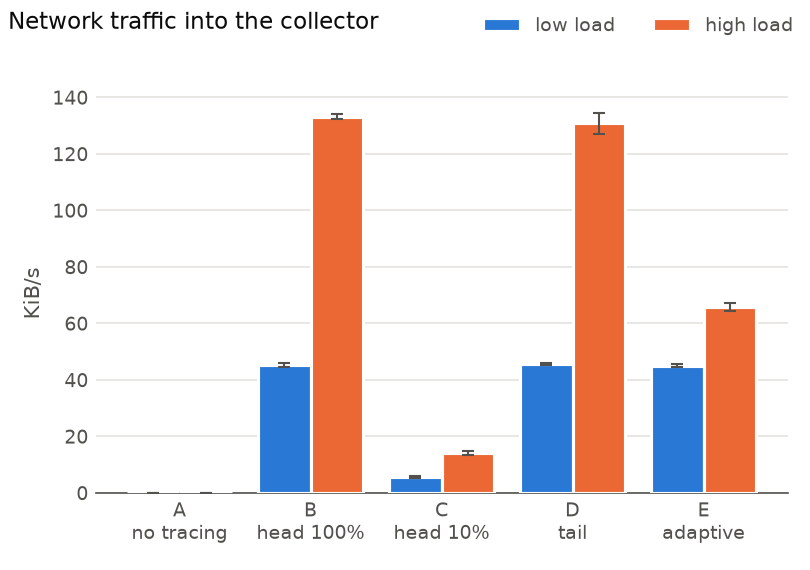
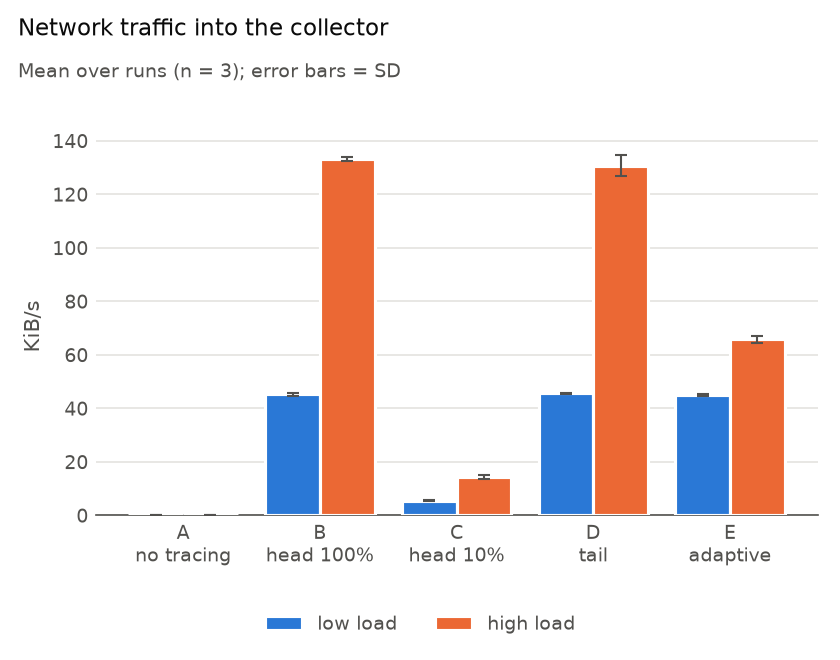
Update results and docs with confidence intervals
- Regenerate summary.md, summary.csv and charts from runs.csv;
  add the Ukrainian chart set in results/analysis/uk/
- docs/results.md: CI section with the clear (non-overlapping)
  and unclear differences, e.g. B vs D on service CPU and CPU at
  low load; note that n = 3 cannot resolve a few percent
- docs/experiment.md: new outputs and the --lang option

diff --git a/docs/results.md b/docs/results.md
@@ -3,7 +3,8 @@
 The final dataset is `results/raw/runs.csv`: 5 scenarios × 2 load levels × 3
 repetitions = 30 runs, 30 s warm-up + 120 s measured each, faults as in
 `scenarios/faults.env` (5% errors, 5% slow). The table and charts in
-`results/analysis/` were produced from it with `uv run analysis/analyze.py`.
+`results/analysis/` were produced from it with `uv run analysis/analyze.py`
+(Ukrainian charts for the report: `--lang uk`, in `results/analysis/uk/`).
 
 Host: Intel Core i7-7700HQ (4 cores / 8 threads), 16 GB RAM, Fedora 44
 (kernel 7.3), Docker 29.10.0, Compose 5.8.0, on AC power. Every measured
@@ -11,7 +12,8 @@ container is limited to 1 CPU and 512 MiB.
 
 ## Key numbers at high load (30 RPS)
 
-Mean ± SD over 3 runs. The full table for both load levels is in
+Mean ± SD over 3 runs (95% confidence intervals are in
+[Confidence intervals](#confidence-intervals)). The full table for both load levels is in
 [`results/analysis/summary.md`](../results/analysis/summary.md).
 
 | Scenario | CPU services, cores | p50, ms | Net to collector, KiB/s | Spans stored/s | RAM collector, MiB | Errors kept, % | Slow kept, % |
@@ -33,7 +35,9 @@ Mean ± SD over 3 runs. The full table for both load levels is in
 - **Full tracing has a clear cost.** B vs A at 30 RPS: service CPU +46%
   (+0.18 cores, ≈ 6 ms of CPU per request of 19 spans), median latency +33%
   (174 → 232 ms), service RAM +25% (218 → 273 MiB), ~133 KiB/s of extra
-  traffic. At 10 RPS: CPU +34%, p50 +22%.
+  traffic. At 10 RPS: CPU +34%, p50 +22%, but there the 95% CIs of A and B
+  overlap (see [Confidence intervals](#confidence-intervals)), so the
+  low-load cost is an estimate, not a clear difference.
 - **Head sampling cuts traffic and storage in proportion, CPU only partly.**
   C (10%) sends 89% less to the collector and stores 90% fewer spans, but
   removes only 38% of the CPU overhead (0.18 → 0.11 cores). The rest, about
@@ -60,7 +64,62 @@ Mean ± SD over 3 runs. The full table for both load levels is in
 - **Collector CPU is negligible** at this load (≤ 0.007 cores in every
   scenario); its cost shows up in memory and network.
 - At low load the CPU differences between the tracing scenarios (0.20–0.22
-  cores) are within about 2 SD of each other and are not meaningful.
+  cores) are not meaningful: their 95% CIs all overlap.
+
+## Confidence intervals
+
+The second table in
+[`results/analysis/summary.md`](../results/analysis/summary.md) gives the
+95% confidence interval of the mean for the key metrics:
+mean ± t(0.975, n − 1) · SD / √n with Student's t (t = 4.303 for n = 3).
+A difference between two scenarios is called *clear* below when their
+intervals do not overlap. Overlapping intervals do not prove that two
+scenarios are equal, only that 3 runs cannot tell them apart. Because t is
+large for n = 3, the intervals are wide: ±4–7% of the mean for service CPU
+at high load and up to ±30% at low load, so differences of a few percent
+cannot be detected.
+
+Service CPU, 95% CI, cores:
+
+| Scenario | Low load (10 RPS) | High load (30 RPS) |
+|---|---:|---:|
+| A: no tracing | 0.151 [0.104, 0.197] | 0.394 [0.372, 0.417] |
+| B: head 100% | 0.203 [0.183, 0.223] | 0.575 [0.550, 0.600] |
+| C: head 10% | 0.200 [0.184, 0.217] | 0.506 [0.485, 0.527] |
+| D: tail | 0.208 [0.200, 0.216] | 0.587 [0.560, 0.614] |
+| E: adaptive (cap 15/s) | 0.224 [0.186, 0.262] | 0.528 [0.491, 0.564] |
+
+**Clear differences (CIs do not overlap):**
+
+- *Cost of tracing at high load:* A is below every tracing scenario in
+  service CPU and p50.
+- *Head 10% vs 100% at high load:* C uses less service CPU than B and D,
+  and has lower p99 than B.
+- *Export volume:* network to the collector is clearly lower for A, C and,
+  at high load, E than for B and D; spans stored per second differ clearly
+  between all scenarios at high load (B > E > D > C).
+- *Collector memory at high load:* all five scenarios differ clearly,
+  including D (tail, 69 MiB) vs B (61 MiB); at low load D is also clearly
+  above B.
+- *Retention:* C (both loads) and E (high load) keep clearly fewer error and
+  slow traces than B and D.
+
+**Not distinguishable (CIs overlap):**
+
+- *B vs D on service CPU*, at both loads (high: 0.575 [0.550, 0.600] vs
+  0.587 [0.560, 0.614]), and on network to the collector. This is what the
+  hypothesis predicts: tail sampling does not lower the services' export
+  cost. Strictly, 3 runs only show that any difference is small; they
+  cannot rule out a few percent in either direction.
+- *E vs B, C and D on service CPU at high load*: E (0.528) lies between C
+  and B, but its interval overlaps all three.
+- *All CPU differences at low load:* B, C, D and E overlap with each other,
+  and A overlaps with B, C and E as well (A's interval is wide, ±0.047
+  cores). Only D vs A is (just) clear. At 10 RPS the CPU cost of tracing is
+  below what 3 runs can resolve.
+- *Latency between the tracing scenarios:* p50 of B, C, D and E overlap at
+  high load; at low load p50 and p99 overlap for all scenarios, including A.
+- *Collector memory at low load:* A vs C and B vs E.
 
 ## Conclusion on the hypothesis
 
@@ -89,14 +148,16 @@ interesting traces).
 
 ## Limitations
 
-- One host, 3 repetitions per setting, two load levels. Differences of a few
-  percent (e.g. between the tracing scenarios at low load) are within noise.
+- One host, 3 repetitions per setting, two load levels. With n = 3 the 95%
+  CIs are wide (t = 4.3), so differences of a few percent (e.g. between the
+  tracing scenarios at low load, or B vs D on CPU) cannot be detected.
 - The services are synthetic and their spans are small (standard HTTP/Redis
   attributes, no events). With larger spans the per-span cost, and so the
   CPU saved by sampling, would be larger.
 - p95 is not reliable here: the 5% slow fault (+500 ms) sits right at the
   95th percentile, so p95 jumps between ~160 and ~600 ms from run to run (SD
-  up to ±260 ms). Use p50 and p99 for latency.
+  up to ±260 ms). It stays in the mean ± SD table, but the latency chart
+  and the CI table use p50 and p99.
 - RAM is the cAdvisor working set, which also counts recently read files.
   In one run a cold start of the collector binary added ~165 MiB of page
   cache; that run was repeated. A repeat run on battery power gave ~20%

diff --git a/results/analysis/summary.md b/results/analysis/summary.md
@@ -1,3 +1,5 @@
+## Mean ± SD
+
 | Scenario | Load | n | RPS | p50, ms | p95, ms | p99, ms | CPU services, cores | CPU collector, cores | RAM services, MiB | RAM collector, MiB | Net to collector, KiB/s | Spans stored/s | Errors kept, % | Slow kept, % |
 |---|---|---|---:|---:|---:|---:|---:|---:|---:|---:|---:|---:|---:|---:|
 | A: no tracing | low | 3 | 10.0 ± 0.0 | 94 ± 6 | 426 ± 260 | 620 ± 6 | 0.151 ± 0.019 | 0.002 ± 0.000 | 217.3 ± 0.8 | 41.1 ± 0.7 | 0.1 ± 0.0 | 0.0 ± 0.0 | 0.0 ± 0.0 | 0.0 ± 0.0 |
@@ -12,3 +14,20 @@
 | E: adaptive | high | 3 | 29.8 ± 0.0 | 211 ± 9 | 407 ± 151 | 759 ± 4 | 0.528 ± 0.015 | 0.005 ± 0.000 | 270.7 ± 0.3 | 56.0 ± 0.7 | 65.8 ± 1.4 | 268.9 ± 8.8 | 48.9 ± 1.1 | 52.4 ± 0.7 |
 
 Values are mean ± sample SD over the repetitions (n); with n = 1 only the value is shown. CPU in cores, RAM as working set; network is bytes received by the collector container; kept shares are traces of failed / slow requests found in Jaeger.
+
+## Mean and 95% confidence interval
+
+| Scenario | Load | n | CPU services, cores | p50, ms | p99, ms | Net to collector, KiB/s | Spans stored/s | RAM collector, MiB | Errors kept, % | Slow kept, % |
+|---|---|---|---:|---:|---:|---:|---:|---:|---:|---:|
+| A: no tracing | low | 3 | 0.151 [0.104, 0.197] | 94 [79, 110] | 620 [604, 635] | 0.1 [0.1, 0.1] | 0.0 [0.0, 0.0] | 41.1 [39.4, 42.7] | 0.0 [0.0, 0.0] | 0.0 [0.0, 0.0] |
+| A: no tracing | high | 3 | 0.394 [0.372, 0.417] | 174 [170, 179] | 720 [701, 740] | 0.1 [0.1, 0.1] | 0.0 [0.0, 0.0] | 40.2 [39.4, 41.0] | 0.0 [0.0, 0.0] | 0.0 [0.0, 0.0] |
+| B: head 100% | low | 3 | 0.203 [0.183, 0.223] | 115 [106, 124] | 638 [628, 647] | 45.3 [43.8, 46.7] | 180.9 [174.9, 186.9] | 52.1 [50.7, 53.5] | 100.0 [100.0, 100.0] | 100.0 [100.0, 100.0] |
+| B: head 100% | high | 3 | 0.575 [0.550, 0.600] | 232 [206, 257] | 789 [771, 807] | 133.2 [131.2, 135.2] | 545.2 [520.4, 570.1] | 61.4 [58.8, 64.0] | 100.0 [100.0, 100.0] | 100.0 [100.0, 100.0] |
+| C: head 10% | low | 3 | 0.200 [0.184, 0.217] | 110 [105, 114] | 633 [631, 635] | 5.5 [4.8, 6.3] | 18.1 [12.6, 23.6] | 44.4 [42.6, 46.3] | 12.1 [2.1, 22.0] | 16.1 [11.7, 20.4] |
+| C: head 10% | high | 3 | 0.506 [0.485, 0.527] | 209 [187, 231] | 754 [742, 765] | 14.3 [12.6, 16.0] | 56.0 [47.1, 64.9] | 46.7 [46.3, 47.1] | 9.5 [4.6, 14.4] | 11.8 [5.2, 18.4] |
+| D: tail | low | 3 | 0.208 [0.200, 0.216] | 113 [90, 136] | 636 [614, 658] | 45.6 [44.8, 46.4] | 33.2 [29.7, 36.7] | 56.8 [54.8, 58.8] | 100.0 [100.0, 100.0] | 100.0 [100.0, 100.0] |
+| D: tail | high | 3 | 0.587 [0.560, 0.614] | 236 [193, 279] | 785 [725, 845] | 130.8 [121.4, 140.2] | 100.1 [90.3, 109.9] | 69.2 [67.4, 70.9] | 100.0 [100.0, 100.0] | 100.0 [100.0, 100.0] |
+| E: adaptive | low | 3 | 0.224 [0.186, 0.262] | 114 [77, 150] | 640 [615, 665] | 45.1 [44.0, 46.1] | 180.9 [171.2, 190.6] | 51.7 [49.8, 53.6] | 100.0 [100.0, 100.0] | 100.0 [100.0, 100.0] |
+| E: adaptive | high | 3 | 0.528 [0.491, 0.564] | 211 [189, 232] | 759 [750, 768] | 65.8 [62.3, 69.3] | 268.9 [247.1, 290.7] | 56.0 [54.2, 57.7] | 48.9 [46.3, 51.5] | 52.4 [50.7, 54.1] |
+
+Values are mean [95% CI of the mean], CI = mean ± t(0.975, n − 1) · SD / √n (Student's t; t = 4.303 for n = 3). Non-overlapping intervals mark a clear difference; with n = 3 the intervals are wide, so differences of a few percent cannot be detected.

diff --git a/docs/experiment.md b/docs/experiment.md
@@ -77,29 +77,40 @@ and `jaeger`.
 
 ## Analysis
 
-`analysis/analyze.py` turns the experiment CSV into the summary table and
-charts for the report. It needs uv (pandas and matplotlib are pinned in the
-root `pyproject.toml`).
+`analysis/analyze.py` turns the experiment CSV into the summary tables and
+charts for the report. It needs uv (pandas, matplotlib and scipy are pinned
+in the root `pyproject.toml`).
 
 ```bash
 uv run analysis/analyze.py                          # results/raw/runs.csv
+uv run analysis/analyze.py --lang uk                # Ukrainian charts
 uv run analysis/analyze.py results/raw/pilot.csv    # any CSV(s) from the runner
 ```
 
 Several CSVs are merged (run IDs must not repeat). Every metric is aggregated
-per scenario and load level as mean ± sample SD over the repetitions; with a
-single repetition only the mean is shown. Output goes to `results/analysis/`
-(`--out` to change it) and is overwritten on every run:
+per scenario and load level as mean ± sample SD over the repetitions and a
+95% confidence interval of the mean,
+mean ± t(0.975, n − 1) · SD / √n, with the Student's t quantile computed by
+scipy (4.303 for n = 3). With a single repetition only the mean is shown.
+Output goes to `results/analysis/` (`--out` to change it) and is overwritten
+on every run:
 
 | File | Content |
 |---|---|
-| `summary.md` | one Markdown table for the report (RPS, latency, CPU, RAM, network, spans, kept shares) |
-| `summary.csv` | the same numbers in long form: `scenario, level, metric, mean, sd, n` |
+| `summary.md` | two Markdown tables for the report: mean ± SD of every metric (RPS, latency, CPU, RAM, network, spans, kept shares), and mean [95% CI] of the key metrics (service CPU, p50, p99, network, spans stored/s, collector RAM, kept shares) |
+| `summary.csv` | the same numbers in long form: `scenario, level, metric, mean, sd, n, ci_low, ci_high` |
 | `cpu_services.png` | CPU of the four services, cores |
-| `latency.png` | p95 and p99 latency, ms |
+| `latency.png` | p50 and p99 latency, ms (p95 is left out: the 5% slow fault sits right at it, see [results.md](results.md#limitations)) |
 | `collector_network.png` | traffic into the collector, KiB/s (`collector_rx_bytes / duration_s`) |
 | `collector_memory.png` | collector working set, MiB |
 | `traces_kept.png` | share of error and slow traces kept, % |
 
 All charts are grouped bars: one group per scenario, one bar per load level,
-error bars = SD.
+error bars = SD (stated in each chart's subtitle). The legend sits below the
+plot, so it never covers the title or the bars.
+
+`--lang` selects the chart language: `en` (default) or `uk`. With `--lang uk`
+titles, axis labels, legends and scenario names are in Ukrainian (strategy
+terms such as head and tail-based stay in English) and the charts go to
+`results/analysis/uk/`; the summary files are written to
+`results/analysis/` as usual and are the same for both languages.

diff --git a/README.md b/README.md
@@ -170,9 +170,9 @@ jaeger/, monitoring/   # Jaeger, Prometheus and Grafana config
 load/locustfile.py     # steady load: 1 request/s per user
 scenarios/             # A-E env files + faults.env
 scripts/               # verify_*.py checks, run_experiment.py
-analysis/analyze.py    # CSV -> summary table and charts
+analysis/analyze.py    # CSV -> summary tables and charts (--lang en/uk)
 results/raw/runs.csv   # final dataset (30 runs)
-results/analysis/      # summary table and charts
+results/analysis/      # summary tables and charts (uk/: Ukrainian charts)
 docs/                  # results, experiment and stand details
 docker-compose.yml
 ```
